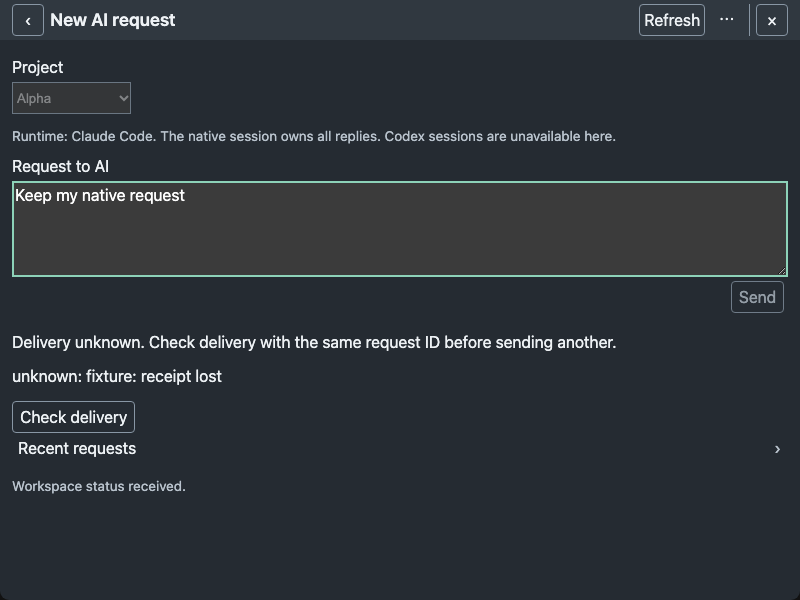
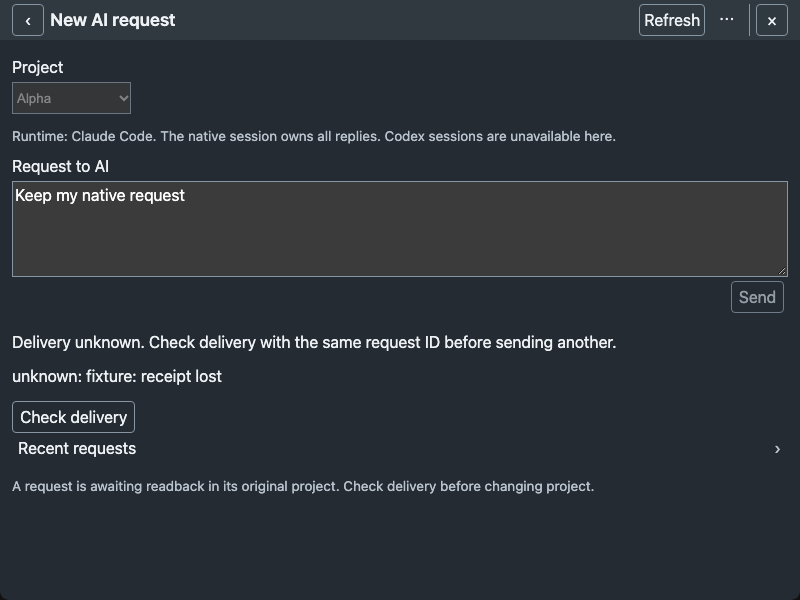
Retain the project of a pending owner request
Explain project-switch refusal while delivery is pending or unknown instead of displaying a different target.

Task: https://github.com/taskqorg/taskq/issues/1464

Changed region(s): [[0.0312, 0.78, 0.75, 0.84], [0.0, 0.3, 1.0, 0.33], [0.0312, 0.45, 0.9688, 0.48]]

diff --git a/src/workspace.js b/src/workspace.js
@@ -63,7 +63,10 @@ const {create}=execution.module('workspace',{
     else {view.unavailable='Requested destination is not available.';page='messages';}
     trail.push(state.capture());if(trail.length>32)trail.shift();view.page=page;
     if(page==='answer')view.answer=context;
-    if(page==='request'&&context?.root)view.aiRoot=context.root;
+    if(page==='request'&&context?.root){
+     if(local.value.op&&['sending','unknown'].includes(local.value.receipt?.state)){view.aiRoot=local.value.op.root;view.notice='A request is awaiting readback in its original project. Check delivery before changing project.';}
+     else view.aiRoot=context.root;
+    }
     view.disclosures={};view.restoreScroll=0;api.draw();menu.querySelector('.shell-overflow')?.removeAttribute('open');menu.querySelector('h1').focus();state.flush();
     if(page==='request'){const input=menu.querySelector('[data-field=request]');input?.setSelectionRange(...local.value.caret);}
    },
@@ -92,6 +95,7 @@ const {create}=execution.module('workspace',{
     if(!hydrated){hydrated=true;const l=s.ai?.local;local.value=l&&typeof l.text==='string'?{...l,caret:l.caret||[0,0]}:{text:s.ai?.draft||'',caret:[0,0],op:null,receipt:null};if(local.value.op&&local.value.receipt?.state==='sending')local.value={...local.value,receipt:{state:'unknown',reason:'Workspace reopened; inspect delivery with the same request ID.'}};}
     answers.hydrate(s.workspace_local);state.hydrate({...s,navigation:s.workspace_navigation});
     if(first&&view.aiRoot===null)view.aiRoot=s.ai?.root||s.projects?.[0]?.root||null;
+    if(local.value.op&&['sending','unknown'].includes(local.value.receipt?.state))view.aiRoot=local.value.op.root;
     const request=s.ai?.request;view.notice=request?'Native request: '+(request.kind||'unknown')+(request.reason?'. '+request.reason:''):'Workspace status received.';
     answers.answerReadback();api.draw();if(first){const input=menu.querySelector('[data-field=request]');input?.setSelectionRange(...local.value.caret);state.focus(view.restoreFocus);}
    },

diff --git a/docs/design/evidence/1464/README.md b/docs/design/evidence/1464/README.md
@@ -9,7 +9,7 @@ This candidate moves owner request composition and task answers from the tray me
 | A1 / TW2 | Menu request and task-answer buttons open the exact workspace route, project, board, task and launch revision without sending. The adapter test also supplies two roots for the same board; selected-project capability and operation routing do not substitute the other root. The workspace native bridge owns request/answer effects. Operational review paths remain in the tray for #1465. |
 | A2 / V15/V28 | The existing public answer card and canonical CLI dispatcher retain original choice IDs/order/text, recommendation, literal free text, attempt/revision display, ordinary direct choices and confirmed fallback Close. No independent parser or new board client. |
 | A3 / disabled Send | The historical owner symptom cannot be re-observed against a live owner draft here. The retained #1430/#1456 browser sequence types through changed refreshes and checks the same textarea, valid Send and visible limit errors. The new request sequence covers empty/valid input and Send/Enter agreement. |
-| A4 / approved scope | Request and answer drafts/caret use native persistence; Back, changed snapshots and page reload preserve them. Enter uses Send validation; Shift+Enter and IME do not send. Full replies remain native and attachments are explicitly deferred. Physical/native IME is not qualified by synthetic browser events. |
+| A4 / approved scope | Request and answer drafts/caret use native persistence; Back, changed snapshots and page reload preserve them. Enter uses Send validation; Shift+Enter and IME do not send. Full replies remain native and attachments are explicitly deferred. A pending request keeps its original project even when a different project launcher is opened. Physical/native IME is not qualified by synthetic browser events. |
 | A5 / V28 | Existing foreign/late receipt, duplicate, exact revision, same-ID retry and partial fallback tests run against the moved adapter. Native setup records bind one request ID to immutable input; restart and Check delivery read that ID, including after launch. Check delivery is read-only: a missing/deleted/corrupt record cannot create a request. Pending persistence restores as unknown and never automatically replays. A failed preference write after request creation leaves unknown, never authorizes a new-ID retry. |
 | A6 / G08 | Before: `node tests/workspace-communication.browser.cjs` failed `0 !== 1`: the original workspace had no named Refresh recovery control. After: focused Refresh and focused text/caret survive changed updates, unavailable routes have a named Messages fallback, and routine status uses a polite live region. The original #1443 BODY-focus observation is historical; the #1463 shell had already replaced that renderer. |
 | A7 / V27/V36 | Loading, missing project/runtime, stale/partial project snapshots, failed saves, unknown request/answer delivery and disappeared tasks have explicit recovery. Corrupt preference bytes remain unchanged and do not become an empty writable store. Refresh performs no mutation replay. |
@@ -23,6 +23,7 @@ The 17 Node component/IPC checks pass. The offline selftest passes 97 fold trace
 
 
 - `node tests/workspace-communication.browser.cjs`: passes Refresh/input focus, polite status, Send/Enter, Shift+Enter/IME, immutable retry, request and answer reload/caret, no replay and unavailable/stale recovery.
+- `node tests/answer-card.browser.cjs`: the unchanged public mount/capability/send contract also passes standalone light/dark, 16/20 px and 280/480 px keyboard/refresh instruments. Optional native load/save does not grant authority to other consumers.
 - `node tests/tray-answer.browser.cjs`: the existing card adapter sequence passes in light/dark at 16/20 px, now in the workspace. It retains literal free text, changed questions, sending refresh, same-op readback, Check delivery, late receipts, fallback confirmation and partial outcomes.
 - `node tests/tray-answer.test.cjs`: moved adapter retains capability, foreign receipt, duplicate, timeout, readback, partial fallback and shared fixture protection.
 - `node tests/tray-home-ai.test.cjs`: menu launchers retain exact scope/revision and contain no composer or answer card.
